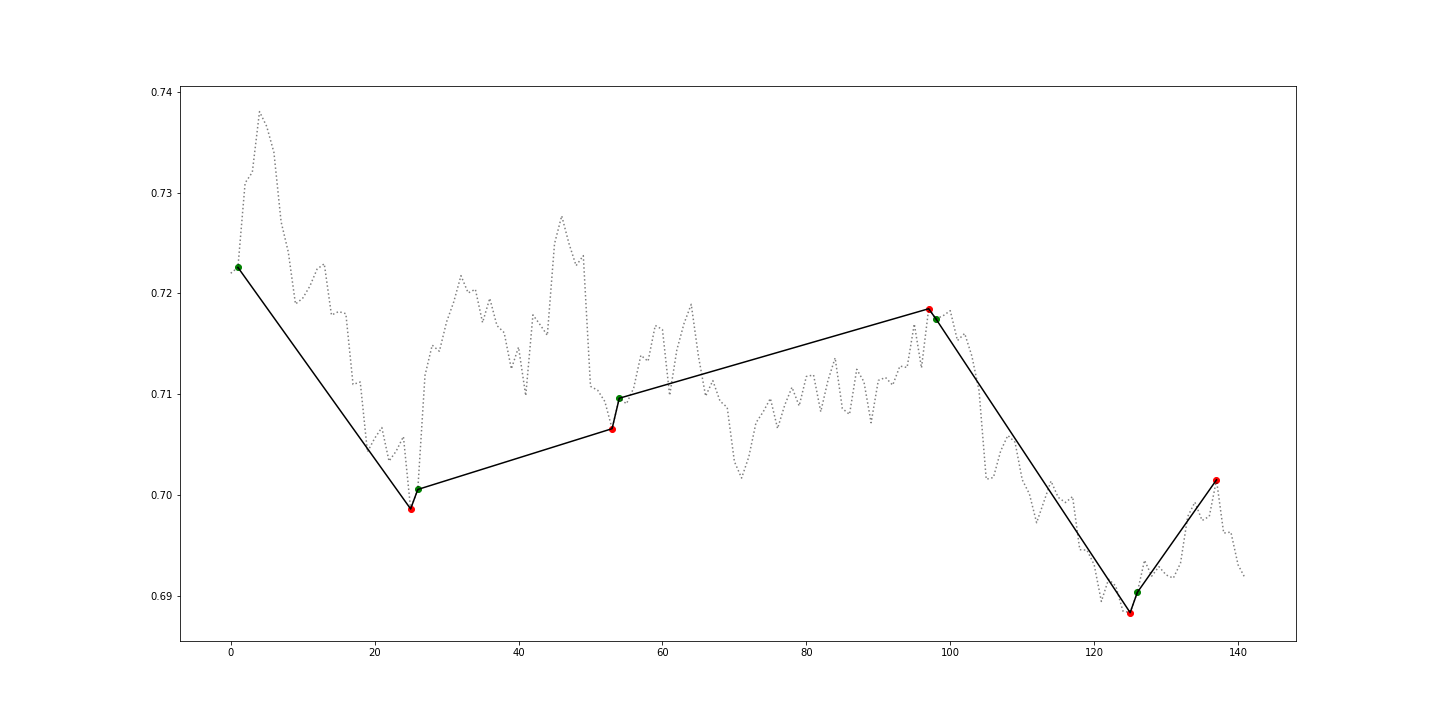
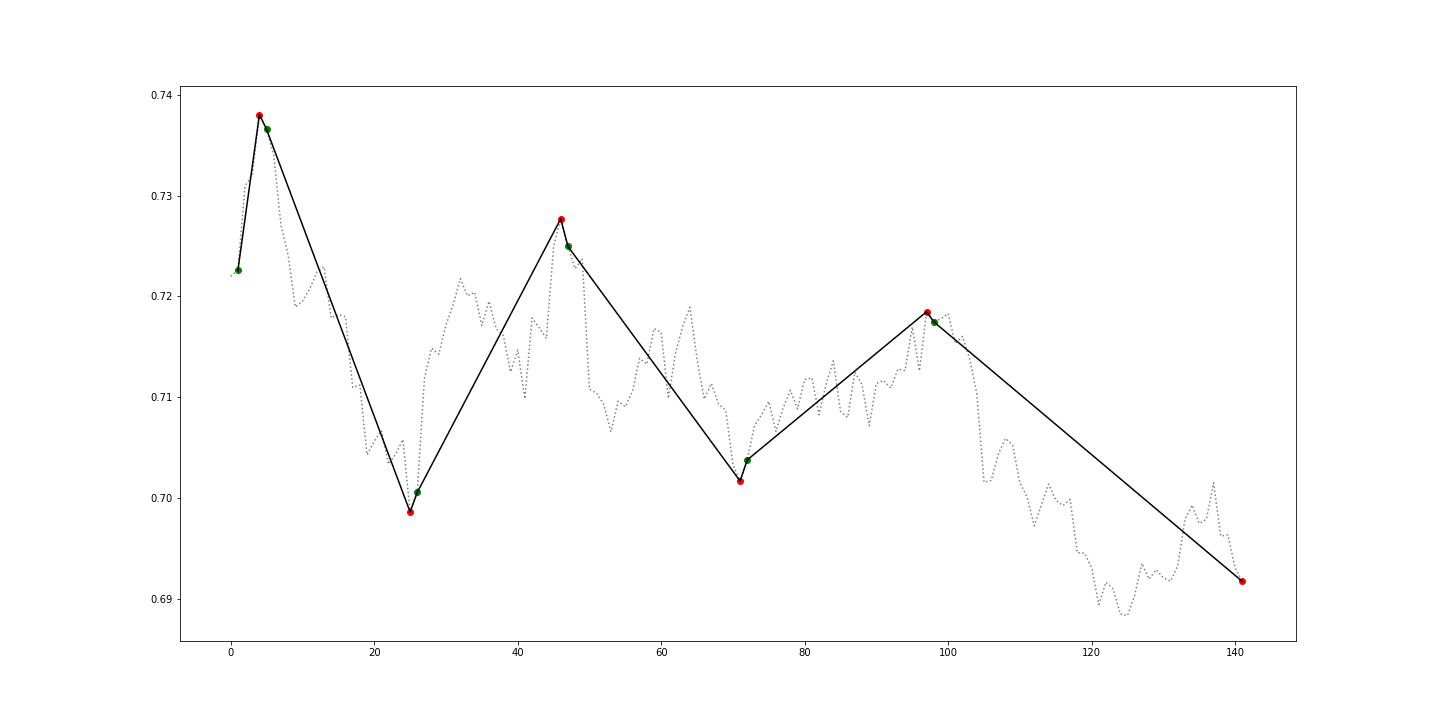
Working on bug in order of segments in segmentlist1

diff --git a/src/segmentlist.py b/src/segmentlist.py
@@ -1,4 +1,3 @@
-from itertools import tee, islice, chain
 from utils import *
 
 import config
@@ -98,56 +97,56 @@ class SegmentList(object):
         # trim the edge segments for irrelevant segments
         nlist=self.__trim_edge_segs(pip_th=100,candle_th=10)
 
-        pdb.set_trace()
-        flistb=[] # list of SegmentLists
-        flist=[] # list of lists, each sublist is a merged segment
+        flist=[] # list of SegmentLists
         slist=[]
         pr_s=None
         is_first=False
-        for s in reversed(nlist):
+
+        for s in nlist:
             if pr_s is None:
+                # Initialize all structures
                 pr_s=s
                 slist.append(s)
                 is_first = True
                 continue
-            else:
+            else: # structures have been initialized
                 if s.is_short(min_n_candles, diff_in_pips) is True:
                     is_first = False
                     slist.append(s)
                 elif len(slist)==0 and s.is_short(min_n_candles, diff_in_pips) is False:
-                    # segment is long but is the first one in a new major segment
+                    # segment is long but is the first one in a new non short segment
                     slist.append(s)
                     is_first=True
                 else:
-                    # segment is long
+                    # current segment is long and the previous one is non-short
                     if is_first is True:
-                        flist.append(reversed(slist))
-                        flistb.append(SegmentList(instrument=self.instrument,slist=reversed(slist)))
-                        slist=[]
-                        slist.append(s)
+                        #append to final structure the previous slist
+                        flist.append(SegmentList(instrument=self.instrument,slist=slist))
+                        slist=[] # reinitialize list
+                        slist.append(s) # add first segment
                     else:
+                        # is_first is False, this means that previous Segment is short
                         slist.append(s)
-                        flist.append(reversed(slist))
-                        flistb.append(SegmentList(instrument=self.instrument, slist=reversed(slist)))
+                        flist.append(SegmentList(instrument=self.instrument, slist=slist))
                         slist=[]
 
         if len(slist)>0:
-            flist.append(reversed(slist))
-            flistb.append(SegmentList(instrument=self.instrument, slist=reversed(slist)))
+            flist.append(SegmentList(instrument=self.instrument, slist=slist))
 
-        pdb.set_trace()
         # the code below is just to plot the merged segments
         if outfile is not None:
             x = [*range(0, len(dates), 1)]
-            xarr = np.array(x)
-            yarr = np.array(y)
+            xarr = np.array(x) # convert to numpy array
+            yarr = np.array(y) # convert to numpy array
             ix_start=[]
             ix_end=[]
-            for ms in reversed(flist):
-                start=ms[-1].clist[0].time
-                end=ms[0].clist[-1].time
-                ix_start.append(np.where(dates == np.datetime64(start))[0][0])
-                ix_end.append(np.where(dates == np.datetime64(end))[0][0])
+            # iterate over each of the SegmentLists representing
+            # each merged segment
+            for ms in flist:
+                ix_start.append(np.where(dates == np.datetime64(ms.start()))[0][0]) # get the ix in dates of the start of merged
+                                                                                    # segment
+                ix_end.append(np.where(dates == np.datetime64(ms.end()))[0][0]) # get the ix in dates of the end of merged
+                                                                                # segment
             fig = plt.figure(figsize=config.PNGFILES['fig_sizes'])
             plt.plot(xarr, yarr, 'k:', alpha=0.5)
             plt.scatter(xarr[[ix_start]], yarr[[ix_start]], color='g')
@@ -159,7 +158,7 @@ class SegmentList(object):
             plt.plot(xarr[[fixs]], yarr[[fixs]], 'k-')
             fig.savefig(outfile, format='png')
 
-        return flistb
+        return flist
 
     def length(self):
         '''
@@ -175,6 +174,8 @@ class SegmentList(object):
         for s in self.slist:
             length=length+len(s.clist)
 
+        self.length=length
+
         return length
 
     def start(self):
@@ -187,7 +188,10 @@ class SegmentList(object):
         A datetime object
         '''
 
-        return self.slist[0].clist[0].time
+        start=self.slist[0].clist[0].time
+        self.start= start
+
+        return start
 
     def end(self):
         '''
@@ -199,7 +203,19 @@ class SegmentList(object):
         A datetime object
         '''
 
-        return self.slist[-1].clist[-1].time
+        end= self.slist[-1].clist[-1].time
+        self.end= end
+
+        return end
+
+    def __repr__(self):
+        return "SegmentList"
+
+    def __str__(self):
+        out_str = ""
+        for attr, value in self.__dict__.items():
+            out_str += "%s:%s " % (attr, value)
+        return out_str
 
 
 class Segment(object):
@@ -285,7 +301,7 @@ class Segment(object):
         True if is short
         '''
 
-        if self.count < min_n_candles  and self.diff < diff_in_pips:
+        if self.count < min_n_candles and self.diff < diff_in_pips:
             return True
         else:
             return False
@@ -300,6 +316,29 @@ class Segment(object):
         '''
 
         return len(self.clist)
+
+    def start(self):
+        '''
+        Function that returns the start of this
+        Segment
+
+        Returns
+        -------
+        datetime
+        '''
+        return self.clist[0].time
+
+    def end(self):
+        '''
+        Function that returns the end of this
+        Segment
+
+        Returns
+        -------
+        datetime
+        '''
+        return self.clist[-1].time
+
 
     def __repr__(self):
         return "Segment"

diff --git a/scripts/detect_SRareas.py b/scripts/detect_SRareas.py
@@ -56,15 +56,23 @@ def calc_surr_lengths(b_list):
     Parameters
     ----------
     blist: List of candles representing each bounce
+
+    Returns
+    -------
+    Dict of dicts: Each key will be the datetime of the bounce
+                   and each value will be the number of candles
+                   of the SegmentList before and after the bounce
     '''
 
     if len(b_list)==0:
         warnings.warn("No bounces in area. Skipping...")
         return 0
 
+    bounce_lengths={}
     delta_period = periodToDelta(100, args.granularity)
 
     for b in b_list:
+        bounce_lengths[b.time]={}
         # get 50 candles after and before the bounce
         start = b.time - delta_period
         end = b.time + delta_period
@@ -77,12 +85,27 @@ def calc_surr_lengths(b_list):
         candle_list = oanda.fetch_candleset()
         sub_cl = CandleList(clist=candle_list, instrument=args.instrument, granularity=args.instrument)
 
-        sub_pl = sub_cl.get_pivotlist(outfile='test_subcl.png', th_up=0.01, th_down=-0.01)
+        sub_pl = sub_cl.get_pivotlist(outfile='test_subcl.png', th_up=0.02, th_down=-0.02)
         slist = sub_pl.slist
 
         mslist=slist.merge_segments(min_n_candles=10, diff_in_pips=200, outfile="test_subcl1.png")
-        pdb.set_trace()
-        print("h")
+        diff=None
+        pr_ms=None
+        max_pr_ms=None
+        c_ms=None
+        for ms in mslist:
+            if diff is None:
+                pr_ms=ms
+                diff= abs(ms.start-b.time)
+            else:
+                if abs(ms.start-b.time)<diff:
+                    max_pr_ms=pr_ms
+                    c_ms=ms
+                    diff=abs(ms.start-b.time)
+                pr_ms = ms
+        bounce_lengths[b.time]={'pre': max_pr_ms.length(),
+                                'after': c_ms.length()}
+        return bounce_lengths
 
 oanda = OandaAPI(url=config.OANDA_API['url'],
                  instrument=args.instrument,
@@ -112,7 +135,8 @@ bounce_dict={}
 for p in np.arange(0.67985, 0.72219, 0.0001):
     inarea_bs=estimate_bounces(price=p, plist=plist)
     if len(inarea_bs)>0:
-        calc_surr_lengths(inarea_bs)
+        pdb.set_trace()
+        seg_lens=calc_surr_lengths(inarea_bs)
         bounce_dict[p]=len(inarea_bs)
 
 bounce_dict_sorted = {k: v for k, v in sorted(bounce_dict.items(), key=lambda x: x[1])}

diff --git a/tests/test_SegmentList.py b/tests/test_SegmentList.py
@@ -47,21 +47,51 @@ def pl_object1():
 
     cl = CandleList(candle_list, instrument='AUD_USD', type='long')
 
-    pl = cl.get_pivotlist(outfile='test.png', th_up=0.01, th_down=-0.01)
+    pl = cl.get_pivotlist(outfile='test.png', th_up=0.02, th_down=-0.02)
 
     return pl
 
+@pytest.fixture
+def pl_object2():
+    '''Returns PivotList object'''
 
-def test_merge_segments(pl_object1):
+    oanda = OandaAPI(url='https://api-fxtrade.oanda.com/v1/candles?',
+                     instrument='AUD_USD',
+                     granularity='D',
+                     alignmentTimezone='Europe/London',
+                     dailyAlignment=22)
+
+    oanda.run(start='2016-01-15T22:00:00',
+              end='2016-08-17T22:00:00',
+              roll=True)
+
+    candle_list = oanda.fetch_candleset()
+
+    cl = CandleList(candle_list, instrument='AUD_USD', type='long')
+
+    pl = cl.get_pivotlist(outfile='test.png', th_up=0.02, th_down=-0.02)
+
+    return pl
+
+def test_merge_segments2(pl_object2):
+    '''Test merge_segments method'''
+
+    slist=pl_object2.slist
+
+    mslist=slist.merge_segments(outfile="test1.png", min_n_candles=10, diff_in_pips=200)
+
+    assert len(mslist)==4
+
+"""
+def test_merge_segments1(pl_object1):
     '''Test merge_segments method'''
 
     slist=pl_object1.slist
 
-    pdb.set_trace()
     mslist=slist.merge_segments(outfile="test1.png", min_n_candles=10, diff_in_pips=200)
 
-    assert len(mslist)==4
-"""
+    assert len(mslist)==3
+
 def test_length_of_segment(pl_object):
     '''Test the length function of Segment'''
 
